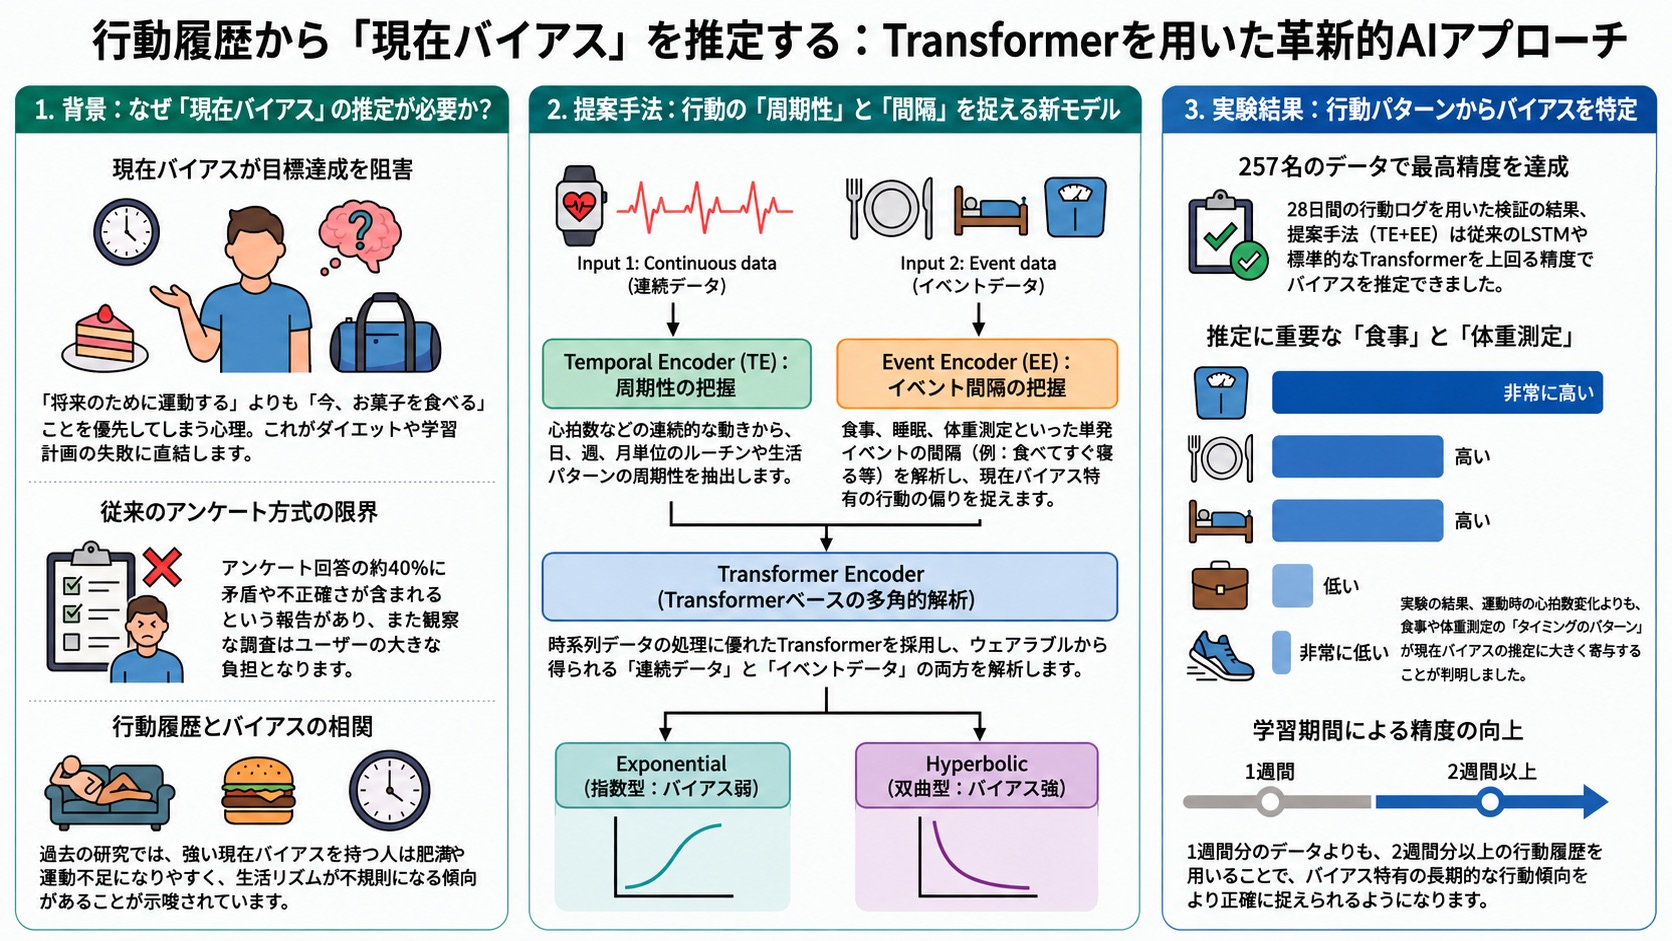
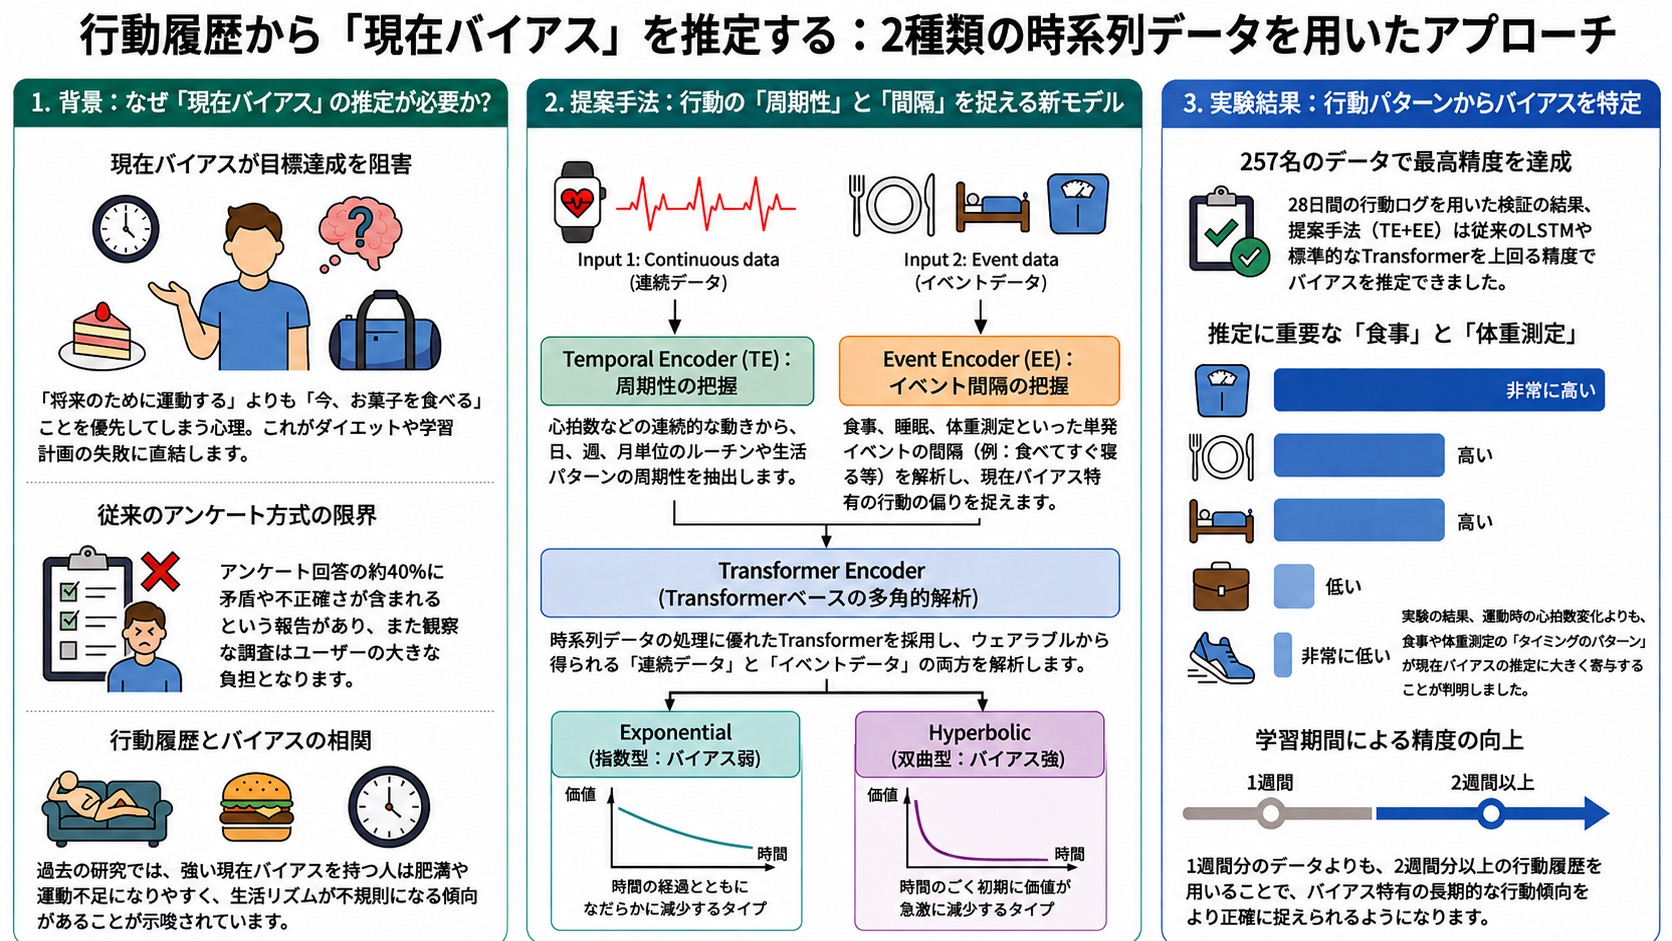
研究内容の概要図2枚を新版に差し替え（現在バイアス推定・時間割引率メッセージング）

diff --git a/docs/research.md b/docs/research.md
@@ -30,7 +30,7 @@ Why are we drawn to limited-edition products, and why do we procrastinate until 
 
     Instead of relying on questionnaires, we developed a Transformer-based model that estimates an individual's present bias (time-discounting type) from everyday behavior logs — continuous data such as heart rate and event data such as meals, sleep, and weight measurements. With 28-day behavior logs from 257 participants, the proposed method outperformed LSTMs and standard Transformers. (Published in IEICE Transactions, 2025)
 
-    ![行動履歴からの現在バイアス推定の概要図](img/research_present_bias.jpg)
+    ![行動履歴からの現在バイアス推定の概要図](img/research_present_bias.jpg?v=2)
 
     <small>図は論文の内容をもとにNotebookLMとChatGPTにより生成<br>The figure was generated with NotebookLM and ChatGPT based on the original paper.</small>
 
@@ -73,6 +73,6 @@ How can we steer irrational human behavior in a better direction? Nudges leverag
 
     We conducted a four-week experiment with 197 participants in which reminder, immediate-reward, and delayed-reward messages were delivered according to each participant's time preference. Messages emphasizing "small immediate rewards" effectively induce and sustain healthy behavior for people with strong time preference, while "large future rewards" work better for people with weak time preference. (Awarded the {==Best Paper Award==} at DICOMO2023)
 
-    ![時間選好を考慮したパーソナライズ・メッセージングの概要図](img/research_timepref_messaging.jpg)
+    ![時間選好を考慮したパーソナライズ・メッセージングの概要図](img/research_timepref_messaging.jpg?v=2)
 
     <small>図は論文の内容をもとにNotebookLMとChatGPTにより生成<br>The figure was generated with NotebookLM and ChatGPT based on the original paper.</small>
